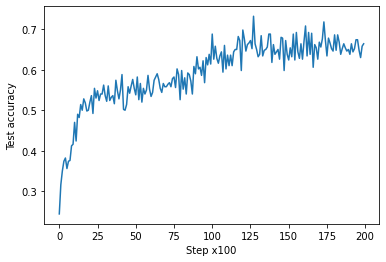
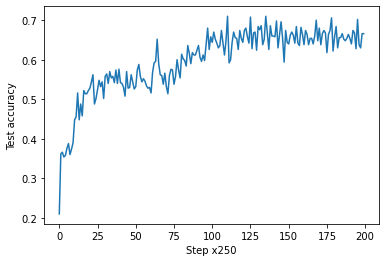
added plots and gpu support

diff --git a/HW1/train.py b/HW1/train.py
@@ -6,12 +6,12 @@ from utils import get_images,load_images,image_file_to_array
 from data_generator import DataGenerator
 from models import MANN
 
-def train(num_classes,num_samples_per_class,meta_batch_size,steps,lr,root):
+def train(num_classes,num_samples_per_class,meta_batch_size,steps,lr,root,device):
   test_losses=[]
   test_accuracies=[]
   gen=DataGenerator(root,num_classes,num_samples_per_class+1)
-  model=MANN(num_classes,num_samples_per_class+1)
-  #model=model.to(device)
+  model=MANN(num_classes,num_samples_per_class+1,device)
+  model=model.to(device)
   criterion=nn.CrossEntropyLoss()
   optimizer=optim.Adam(model.parameters(),lr=lr)
   for n in range(1,steps+1):
@@ -21,7 +21,7 @@ def train(num_classes,num_samples_per_class,meta_batch_size,steps,lr,root):
     out=model(i,l)
     n_out=out[-num_classes:].transpose(0,1).contiguous().view(-1,num_classes)
     optimizer.zero_grad()
-    #target=target.to(device)
+    target=target.to(device)
     loss=criterion(n_out,target)
     loss.backward()
     optimizer.step()
@@ -30,7 +30,7 @@ def train(num_classes,num_samples_per_class,meta_batch_size,steps,lr,root):
         i,l=gen.sample_batch("test",100)
         n_labels=l[:,-1:].squeeze(1).reshape(-1,num_classes)
         target=torch.tensor(n_labels.argmax(axis=1))
-        #target=target.to(device)
+        target=target.to(device)
         out=model(i,l)
         n_out=out[-num_classes:].transpose(0,1).contiguous().view(-1,num_classes)
         pred=torch.tensor(n_out.argmax(axis=1))

diff --git a/HW1/models.py b/HW1/models.py
@@ -4,11 +4,12 @@ import torch.nn as nn
 
 #Works, consistently gets somewhere around 70% accuracy!
 class MANN(nn.Module):
-    def __init__(self,num_classes,samples_per_class,embed_size=784):
+    def __init__(self,num_classes,samples_per_class,device,embed_size=784):
         super().__init__()
         self.num_classes=num_classes
         self.samples_per_classe=samples_per_class
         self.embed_size=embed_size
+        self.device=device
         self.conv=nn.Sequential(
             nn.Conv2d(1,128,3),
             nn.BatchNorm2d(128,momentum=1,affine=True),
@@ -31,11 +32,11 @@ class MANN(nn.Module):
     def forward(self, input_images, input_labels):
         b,k,n,_=input_labels.shape
         input_images=torch.tensor(input_images).view(-1,1,28,28)
-        #input_images=input_images.to(device)
+        input_images=input_images.to(self.device)
         input_images=self.conv(input_images)
         input_images=input_images.reshape(b,n*k,-1)
         input_labels=torch.tensor(input_labels).view(b,-1,n)
-        #input_labels=input_labels.to(device)
+        input_labels=input_labels.to(self.device)
         input_labels[:,-self.num_classes:]=0
         x=torch.cat((input_images,input_labels),-1).transpose(0,1)
         x,_=self.lstm1(x)

diff --git a/HW1/plotter.py b/HW1/plotter.py
@@ -3,6 +3,6 @@ import matplotlib.pyplot as plt
 
 def plot(test_accuracies):
   plt.plot(range(len(test_accuracies)),test_accuracies)
-  plt.xlabel("Step x100")
+  plt.xlabel("Step x250")
   plt.ylabel("Test accuracy")
   plt.show()
